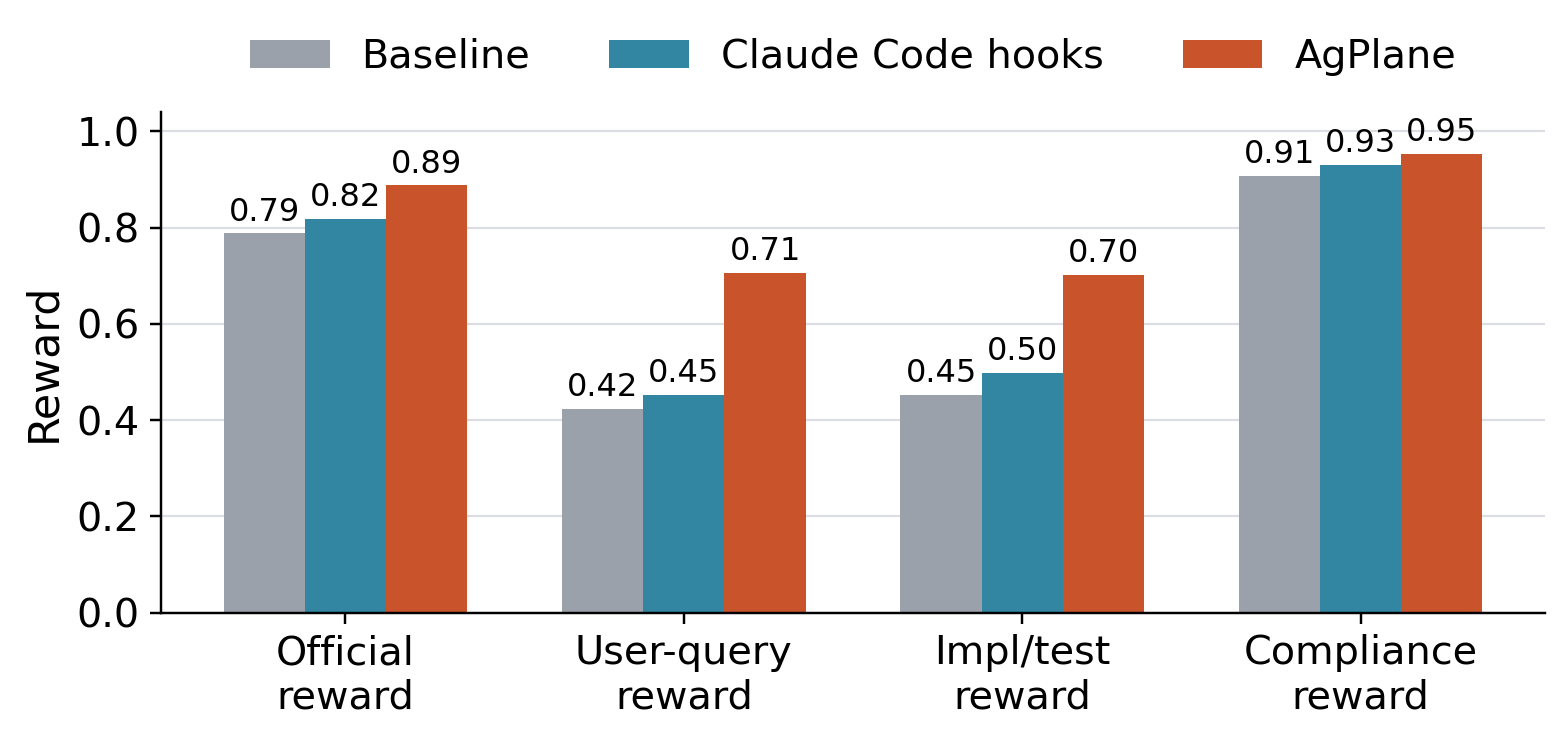
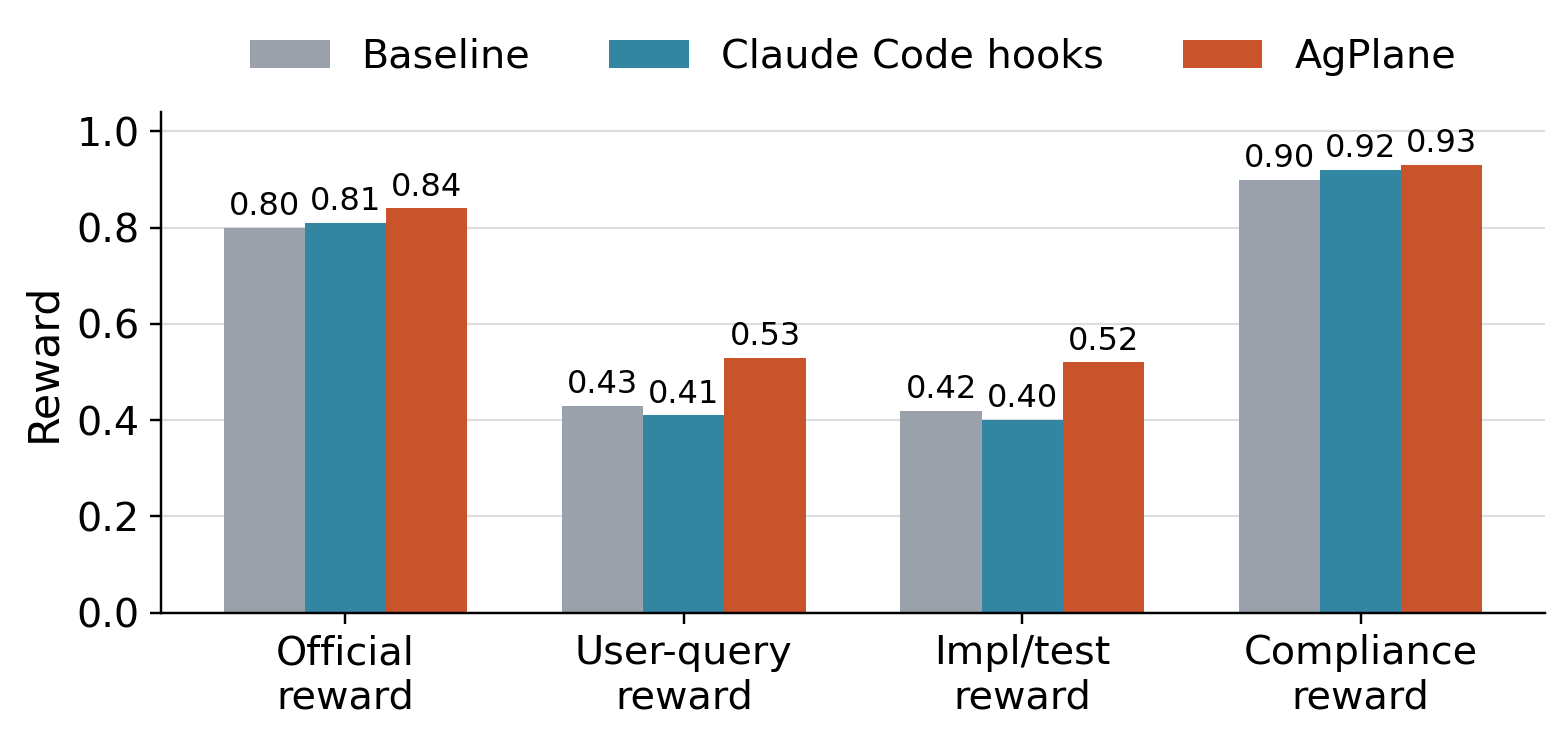
buunu

diff --git a/sections/05-evaluation.tex b/sections/05-evaluation.tex
@@ -352,14 +352,12 @@ with 217 tasks spanning system prompts, tool schemas, project
 files (\texttt{CLAUDE.md}, \texttt{AGENTS.md}), and user queries.
 We use the official evaluator unchanged. Because \sys{}
 cannot observe purely semantic checks (e.g., tone), 
-we select a 20-task subset which includes mainly OS-observable rules.
-A task is eligible when at least one checklist item maps to a
-concrete command, file operation, generated artifact, or tool-execution
-constraint that can be expressed as a case-specific policy before
-execution. The selected subset spans \texttt{CLAUDE.md},
+we select a 21-task subset whose user-query checklist contains at least
+one OS-enforceable item (command, file operation,  tool-execution).
+The selected subset spans \texttt{CLAUDE.md},
 \texttt{AGENTS.md}, and user-query policy sources, two agent harnesses,
 and seven repos. Pure file content, style, tone, and natural-language-only
-cases are excluded. The remaining 197~tasks lack OS-observable
+cases are excluded. The remaining 196~tasks lack OS-enforceable
 checklist items and fall outside \sys{}'s enforcement scope.
 Each task runs under three conditions: baseline (no enforcement),
 Claude Code hooks~\cite{anthropic2026hooks}
@@ -369,8 +367,8 @@ reads the task description and produces the policy
 without any human involvement.
 
 \paragraph{Metrics.}
-The primary metric is official OctoBench reward (fraction of checklist
-policies judged satisfied). We additionally report three diagnostic
+The primary metric is official OctoBench RL reward.
+We additionally report three diagnostic
 submetrics from the same checklist results: \emph{user-query reward}
 (user-task checks only), \emph{implementation/test reward}
 (implementation, testing, configuration, and modification checks), and
@@ -380,22 +378,22 @@ official LLM-based checklist judge.
 \begin{figure}[tb]
 \centering
 \includegraphics[width=\columnwidth]{figures/octobench_rq3.png}
-\caption{OctoBench 20-task subset: reward breakdown by system.}
+\caption{OctoBench 21-task subset: reward breakdown by system.}
 \Description{Grouped bar chart of baseline, Claude Code hooks, and \sys{}
 reward components.}
 \label{fig:octobench-rq3}
 \end{figure}
 
 \paragraph{Results.}
-\noindent\textbf{On the 20-task subset, \sys{} achieves 0.888 official
-reward, a 10-point gain over baseline and 7-point gain over
-Claude Code hooks.}
-The improvement is not limited to compliance-typed checks:
-user-query reward rises by 28.2~points and
-implementation/test reward by 25.0~points over baseline. These results
-confirm that \sys{} improves policy compliance on real coding-agent
-tasks, with gains extending beyond compliance-typed checks to user-task
-and implementation quality.
+\noindent\textbf{\sys{} is the only condition that improves all four
+reward metrics over baseline.}
+The improvement concentrates on task-specific checks:
+user-query reward rises by 9.9~points and
+implementation/test reward by 9.7~points over baseline, while
+compliance reward shows a smaller 2.8-point gain.
+These results confirm that OS-level enforcement with semantic feedback
+improves task completion on real coding-agent tasks, with gains
+extending beyond compliance-typed checks.
 
 %% ----------------------------------------------------------------
 \subsection{RQ5: Safety Enforcement Beyond Coding Tasks}

diff --git a/scripts/plot_octobench_rq3.py b/scripts/plot_octobench_rq3.py
@@ -23,9 +23,9 @@ METRICS = [
 ]
 
 SERIES = {
-    "Baseline": [0.788, 0.424, 0.452, 0.907],
-    "Claude Code hooks": [0.818, 0.452, 0.498, 0.931],
-    "AgPlane": [0.888, 0.706, 0.702, 0.953],
+    "Baseline": [0.80, 0.43, 0.42, 0.90],
+    "Claude Code hooks": [0.81, 0.41, 0.40, 0.92],
+    "AgPlane": [0.84, 0.53, 0.52, 0.93],
 }
 
 COLORS = {